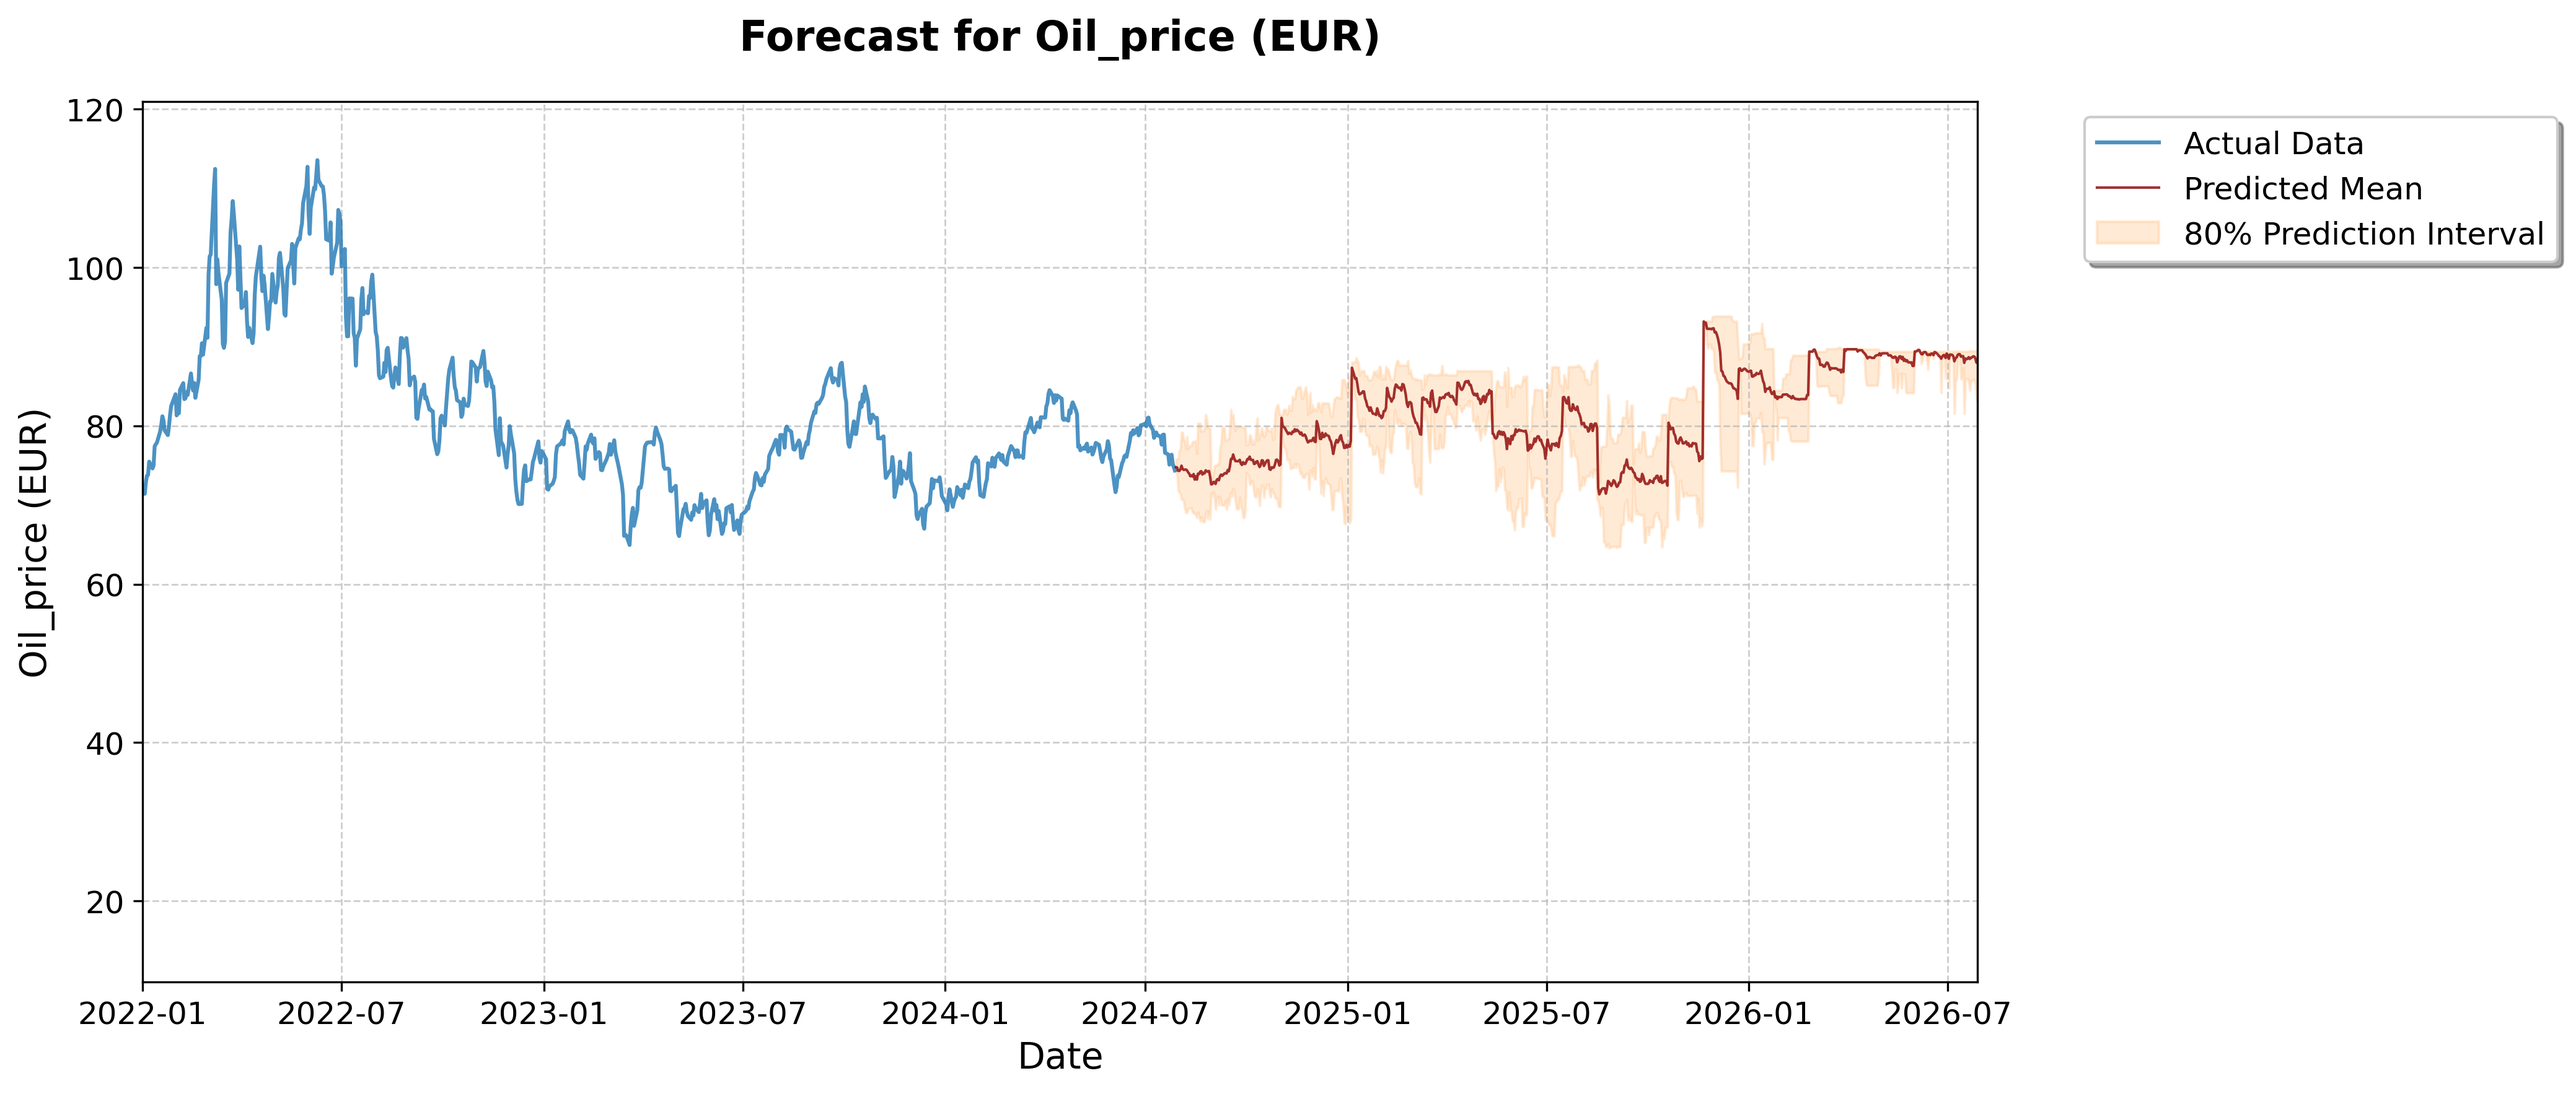
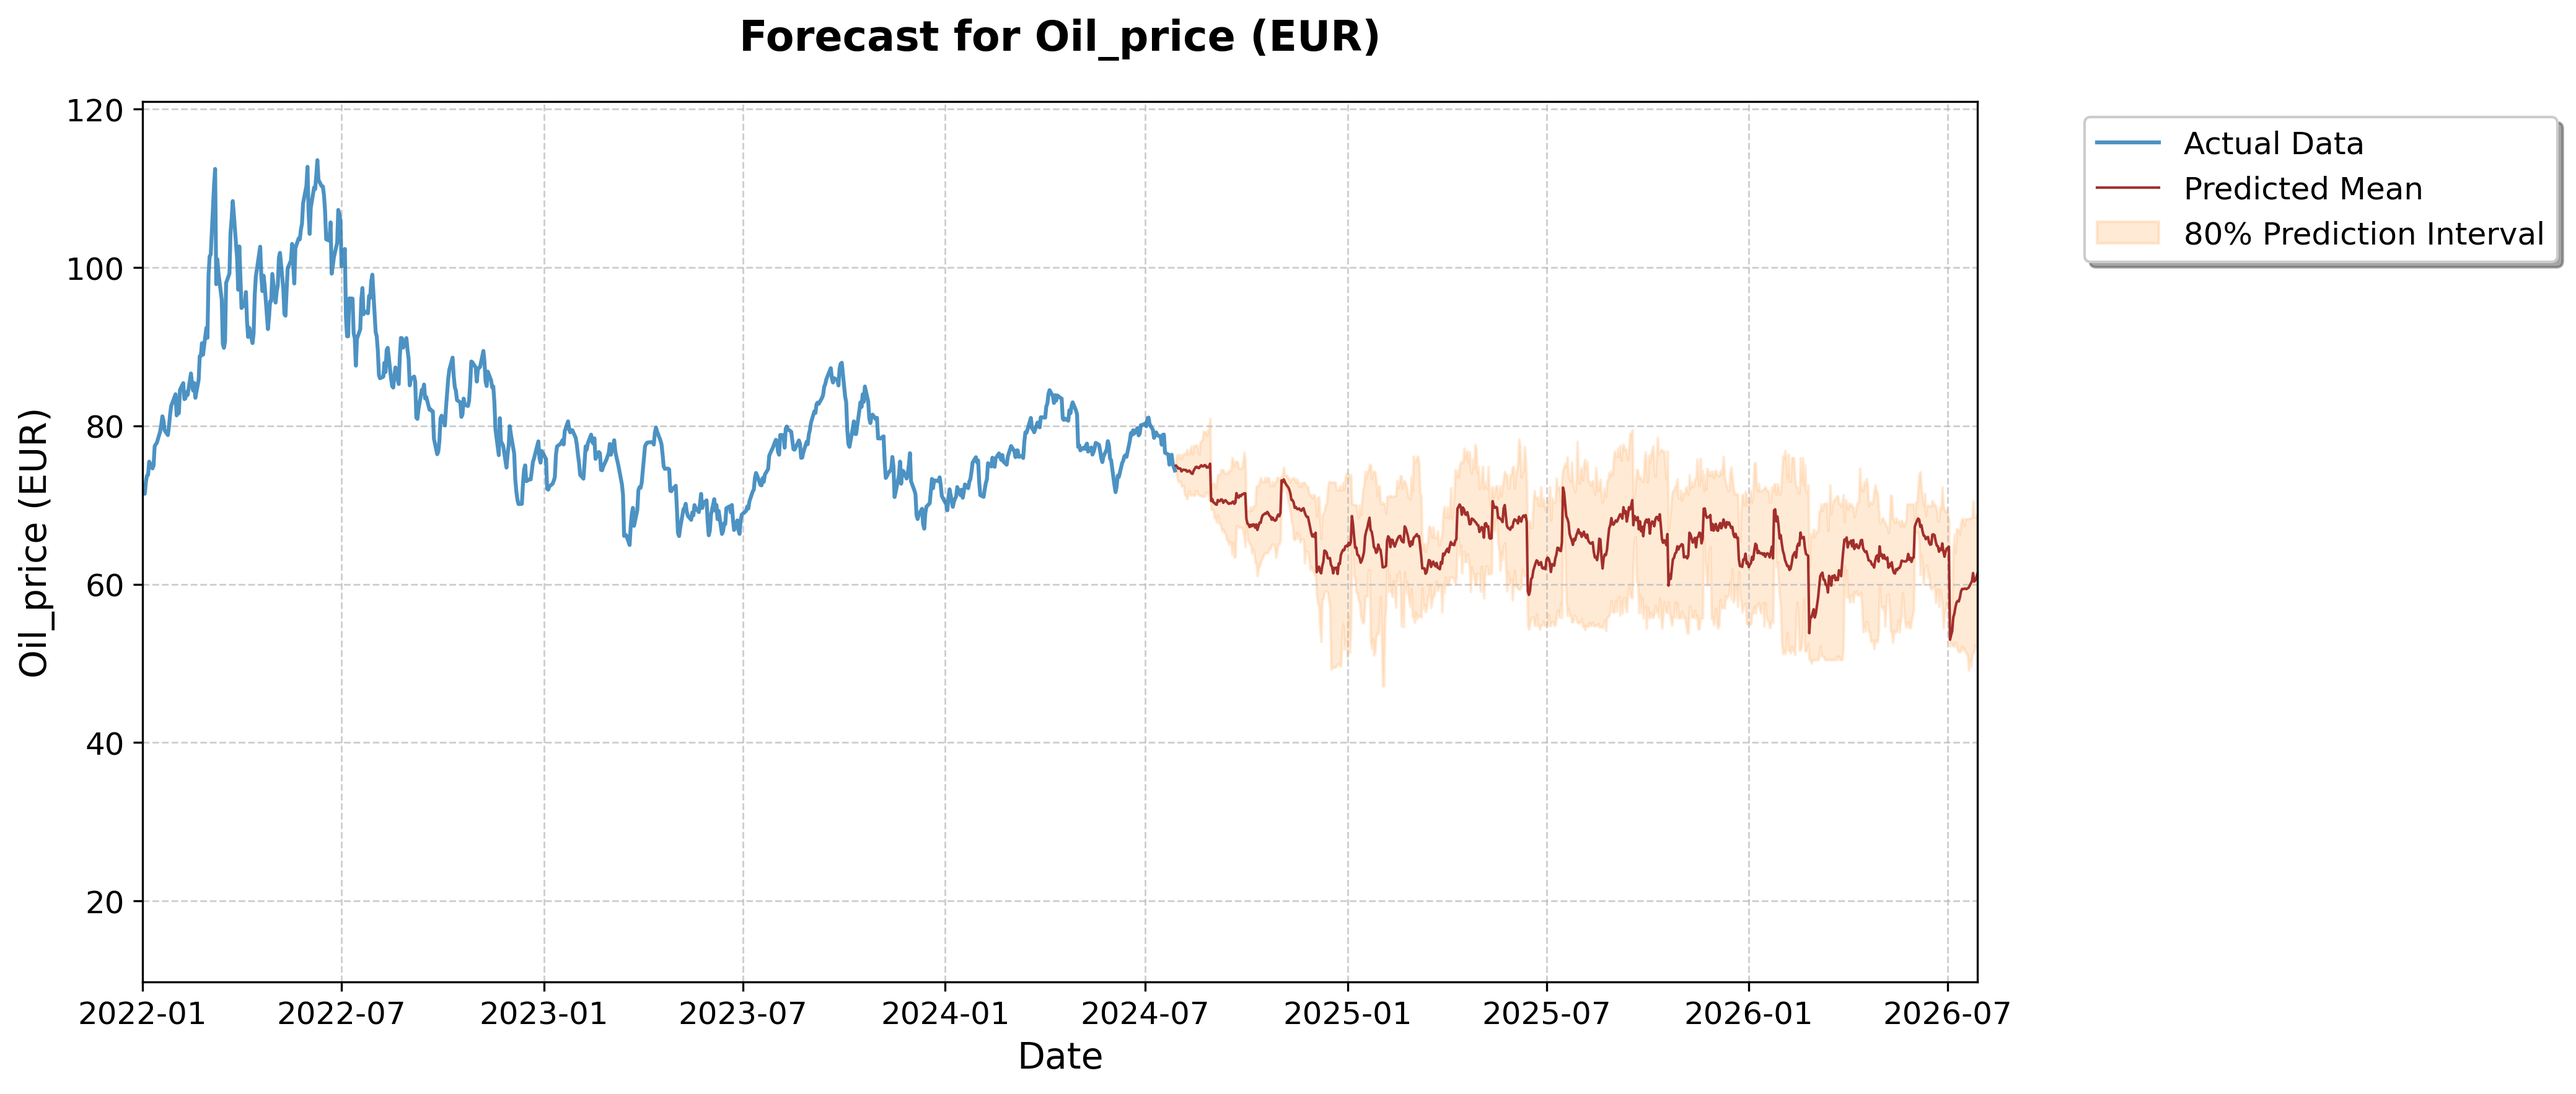
Added new plots

Changed region(s): [[0.4344, 0.2801, 0.7758, 0.6225]]

diff --git a/data_retrieval/future_data/Chronos/chronos_3.py b/data_retrieval/future_data/Chronos/chronos_3.py
@@ -7,12 +7,12 @@ from chronos import ChronosPipeline
 import platform
 
 # Global configuration
-TARGET_COLUMN = "Oil_price (EUR)"
-MODEL_SIZE = "base"
+TARGET_COLUMN = "TTF_gas_price (€/MWh)"
+MODEL_SIZE = "large"
 # als nächstes 400 testen und dann 500 , das gleiche dann nochmaml mit batch size 16 und 64
-CONTEXT_SIZE = 300
+CONTEXT_SIZE = 500
 TOTAL_PREDICTION_LENGTH = 730
-CHUNK_SIZE = 32
+CHUNK_SIZE = 64
 SMOOTHING_WINDOW = 5
 DEVICE = "mps" if torch.cuda.is_available() else "cpu"
 
